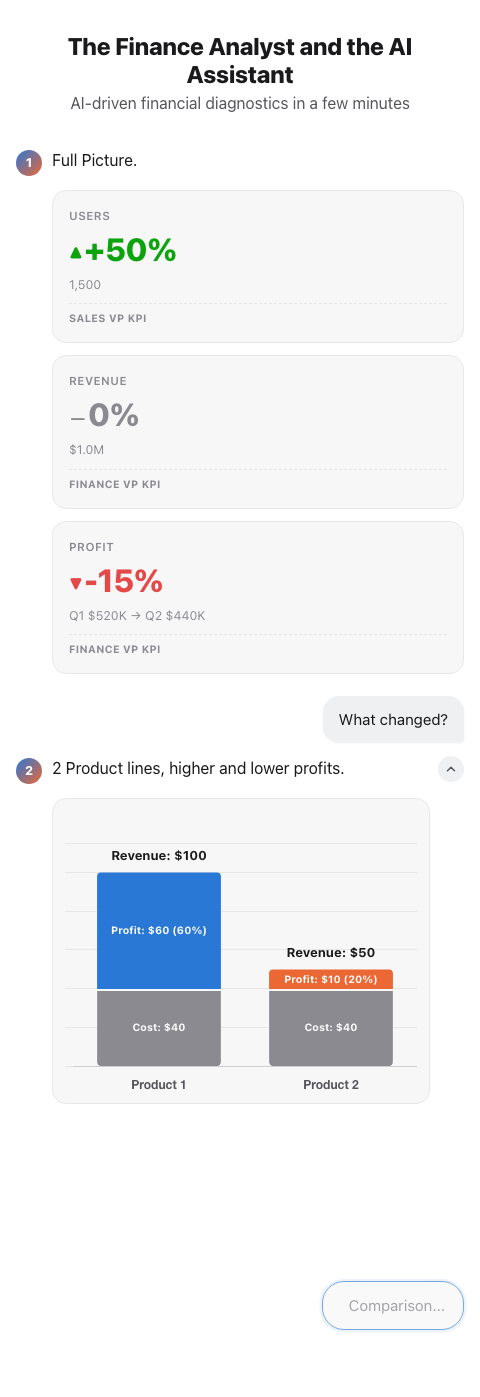
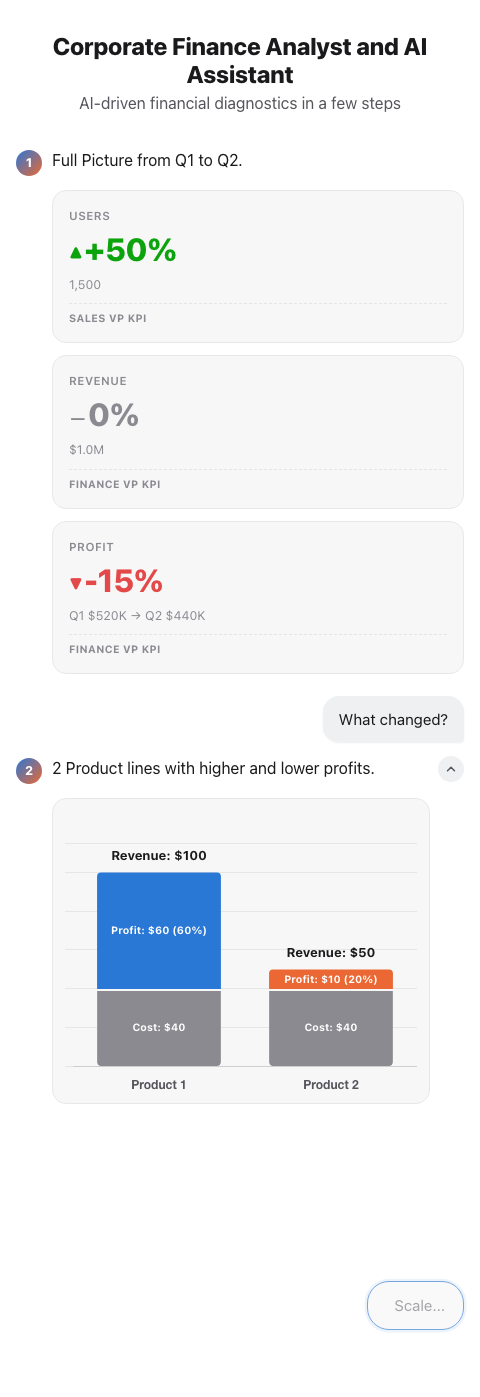
Draw the -15% delta directly on page 3's chart, sync chat bubble copy
Replaces a separate callout line with a bracket connecting the two
profit totals right on the chart, labeled -15%, so the comparison lives
where the data already is. Also syncs a couple of chat bubble question
labels (page 3, page 6) with the typed-out preview text in the input
dock, which had drifted out of sync during copy edits.

Changed region(s): [[0.125, 0.0, 0.875, 0.1231], [0.3438, 0.5233, 0.75, 0.554], [0.75, 0.9234, 0.875, 0.9542]]

diff --git a/XT/index.html b/XT/index.html
@@ -4,7 +4,7 @@
 <meta charset="UTF-8">
 <meta name="viewport" content="width=device-width, initial-scale=1.0">
 <title>Business X-Ray</title>
-<meta name="description" content="AI-driven financial diagnostics in a few minutes.">
+<meta name="description" content="AI-driven financial diagnostics in a few steps.">
 <script src="https://cdnjs.cloudflare.com/ajax/libs/Chart.js/4.4.1/chart.umd.js"></script>
 <style>
   :root {
@@ -922,8 +922,8 @@
 <div class="app">
 
   <header class="hero">
-    <h1>The Finance Analyst and the AI Assistant</h1>
-    <p>AI-driven financial diagnostics in a few minutes</p>
+    <h1>Corporate Finance Analyst and AI Assistant</h1>
+    <p>AI-driven financial diagnostics in a few steps</p>
   </header>
 
   <div class="conversation">
@@ -933,7 +933,7 @@
       <div class="ai-avatar-row fade-in">
         <div class="ai-dot" aria-hidden="true">1</div>
         <div class="ai-content">
-          <p class="ai-message">Full Picture.</p>
+          <p class="ai-message">Full Picture from Q1 to Q2.</p>
           <div class="kpi-grid">
             <div class="kpi-card">
               <p class="kpi-label">Users</p>
@@ -971,7 +971,7 @@
               <button class="collapse-btn" id="collapseBtn-2" data-page="2" type="button" aria-label="Collapse this response">
                 <svg viewBox="0 0 24 24" fill="none" stroke="currentColor" stroke-width="2.5" stroke-linecap="round" stroke-linejoin="round"><polyline points="6 15 12 9 18 15"></polyline></svg>
               </button>
-              <p class="ai-message">2 Product lines, higher and lower profits.</p>
+              <p class="ai-message">2 Product lines with higher and lower profits.</p>
 
               <div class="chart-card">
                 <div class="chart-scroll">
@@ -989,7 +989,7 @@
     <!-- PAGE 3: comparison, Q1 vs Q2 mix and total profit -->
     <section class="turn" id="page-3">
       <div class="user-row reveal-anim" id="user-3" hidden>
-        <div class="user-question" data-page="3">Comparison</div>
+        <div class="user-question" data-page="3">Scale?</div>
       </div>
       <div class="ai-collapse-shell" id="collapseShell-3">
         <div class="ai-collapse-inner">
@@ -999,7 +999,7 @@
               <button class="collapse-btn" id="collapseBtn-3" data-page="3" type="button" aria-label="Collapse this response">
                 <svg viewBox="0 0 24 24" fill="none" stroke="currentColor" stroke-width="2.5" stroke-linecap="round" stroke-linejoin="round"><polyline points="6 15 12 9 18 15"></polyline></svg>
               </button>
-              <p class="ai-message">Q1 versus Q2. P1's volume down (80% to 60%), P2's up (20% to 40%), total profit down ($520K to $440K).</p>
+              <p class="ai-message">Business Drivers: Price x Volume. Easy!</p>
 
               <div class="table-scroll">
                 <table class="data-table">
@@ -1032,7 +1032,7 @@
     <!-- PAGE 4: drivers, Q1 vs Q2 -->
     <section class="turn" id="page-4">
       <div class="user-row reveal-anim" id="user-4" hidden>
-        <div class="user-question" data-page="4">Break down the drivers.</div>
+        <div class="user-question" data-page="4">Drivers Waterfall.</div>
       </div>
       <div class="ai-collapse-shell" id="collapseShell-4">
         <div class="ai-collapse-inner">
@@ -1060,7 +1060,7 @@
     <!-- PAGE 5: three options overview -->
     <section class="turn" id="page-5">
       <div class="user-row reveal-anim" id="user-5" hidden>
-        <div class="user-question" data-page="5">What can we do?</div>
+        <div class="user-question" data-page="5">Options?</div>
       </div>
       <div class="ai-collapse-shell" id="collapseShell-5">
         <div class="ai-collapse-inner">
@@ -1085,7 +1085,7 @@
                 </div>
                 <div class="option-card" id="optionCardC">
                   <p class="option-label">C</p>
-                  <p class="option-title">Change Sales Commission</p>
+                  <p class="option-title">Volume up: Change Sales Commission</p>
                   <p class="option-verdict">&#8594; Deep dive</p>
                 </div>
               </div>
@@ -1098,7 +1098,7 @@
     <!-- PAGE 6: Option B, promotional pricing -->
     <section class="turn" id="page-6">
       <div class="user-row reveal-anim" id="user-6" hidden>
-        <div class="user-question" data-page="6">What about pricing instead?</div>
+        <div class="user-question" data-page="6">B: Cut Price</div>
       </div>
       <div class="ai-collapse-shell" id="collapseShell-6">
         <div class="ai-collapse-inner">
@@ -1237,7 +1237,7 @@
 
               <div class="roles-grid">
                 <div class="role-row silicon">
-                  <p class="role-label">&#129302; Silicon Employee (AI Agent)<span class="role-sublabel">AI Assistant</span></p>
+                  <p class="role-label">&#129302; Silicon Employee <span class="role-sublabel">AI Assistant</span></p>
                   <div class="role-tasks">
                     <span>Simplify the Calculations</span>
                     <span>Trace the Drivers</span>
@@ -1254,7 +1254,7 @@
                     <span>Discuss the Options</span>
                     <span>Balance the Trade-offs</span>
                     <span>Make the Tough Calls</span>
-                    <span>Align the target like Cross-functionally</span>
+                    <span>Align the common goal Cross-functionally</span>
                   </div>
                   <div class="role-time-row">
                     <div class="role-time-old">1 Month<span class="role-time-old-note">before AI</span></div>
@@ -1395,6 +1395,38 @@
     }
   };
 
+  var profitBridgePlugin = {
+    id: 'profitBridge',
+    afterDatasetsDraw: function (chart) {
+      var bridge = chart.data.bridge;
+      if (!bridge) return;
+      var ctx = chart.ctx;
+      var lastIndex = chart.data.datasets.length - 1;
+      var meta = chart.getDatasetMeta(lastIndex);
+      var bar1 = meta.data[0];
+      var bar2 = meta.data[1];
+      var topY = Math.min(bar1.y, bar2.y) - 32;
+      var tickBottom = topY + 6;
+
+      ctx.save();
+      ctx.strokeStyle = bridge.color;
+      ctx.lineWidth = 2;
+      ctx.beginPath();
+      ctx.moveTo(bar1.x, tickBottom);
+      ctx.lineTo(bar1.x, topY);
+      ctx.lineTo(bar2.x, topY);
+      ctx.lineTo(bar2.x, tickBottom);
+      ctx.stroke();
+
+      ctx.fillStyle = bridge.color;
+      ctx.font = '800 13px system-ui, -apple-system, sans-serif';
+      ctx.textAlign = 'center';
+      ctx.textBaseline = 'bottom';
+      ctx.fillText(bridge.label, (bar1.x + bar2.x) / 2, topY - 4);
+      ctx.restore();
+    }
+  };
+
   function renderChart2Unit() {
     var ctx = document.getElementById('chart-2-unit').getContext('2d');
     var muted = cssVar('--text-secondary') || '#55555b';
@@ -1473,6 +1505,7 @@
       data: {
         labels: ['Q1', 'Q2'],
         totalLabels: ['Profit: $520K', 'Profit: $440K'],
+        bridge: { label: '-15%', color: colors.red },
         segmentFontSize: 9,
         segmentLabels: [
           [
@@ -1512,7 +1545,7 @@
       options: {
         responsive: true,
         maintainAspectRatio: false,
-        layout: { padding: { top: 28 } },
+        layout: { padding: { top: 50 } },
         scales: {
           x: {
             stacked: true,
@@ -1540,7 +1573,7 @@
           }
         }
       },
-      plugins: [segmentLabelPlugin, totalLabelPlugin, scissorLinePlugin]
+      plugins: [segmentLabelPlugin, totalLabelPlugin, scissorLinePlugin, profitBridgePlugin]
     });
   }
 
@@ -1677,10 +1710,10 @@
   var steps = [2, 3, 4, 5, 6, 7, 8];
   var questionText = {
     2: { preview: 'What...', full: 'What changed?' },
-    3: { preview: 'Comparison...', full: 'Comparison' },
-    4: { preview: 'Break...', full: 'Break down the drivers.' },
-    5: { preview: 'What...', full: 'What can we do?' },
-    6: { preview: 'What...', full: 'Option B' },
+    3: { preview: 'Scale...', full: 'Scale?' },
+    4: { preview: 'Drivers...', full: 'Drivers Waterfall.' },
+    5: { preview: 'Options...', full: 'Options?' },
+    6: { preview: 'B...', full: 'B: Cut Price' },
     7: { preview: 'And...', full: 'And Option C?' },
     8: { preview: 'Why...', full: 'Why does this matter?' }
   };
